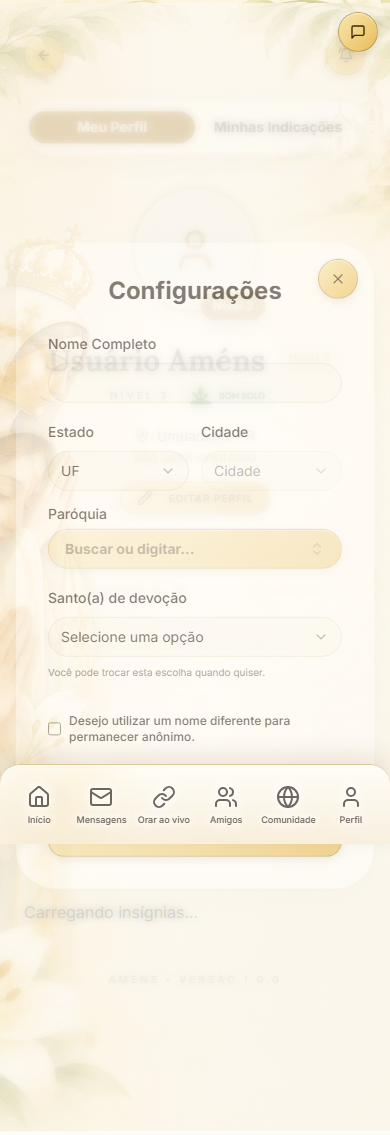
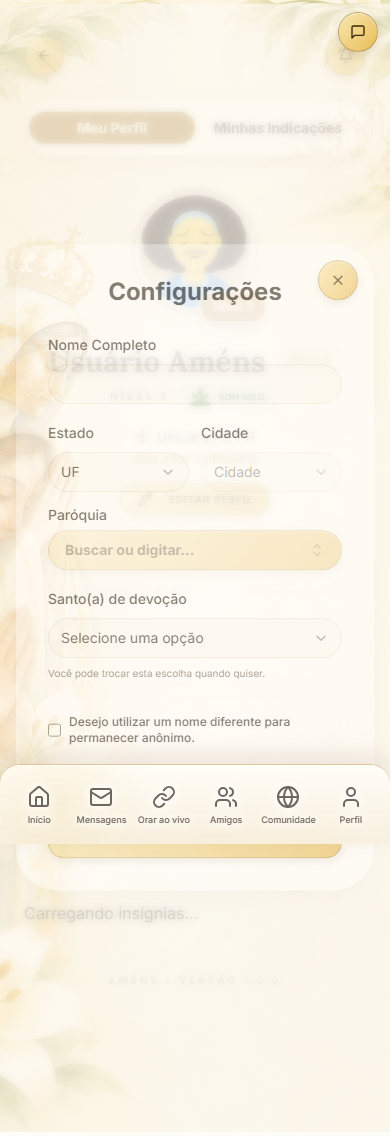
test(app13): validate profile privacy and upload guards

diff --git a/src/pages/Profile.tsx b/src/pages/Profile.tsx
@@ -216,6 +216,12 @@ const Profile = () => {
       }
 
       const file = event.target.files[0];
+      if (!file.type.startsWith("image/")) {
+        throw new Error("Selecione uma imagem válida.");
+      }
+      if (file.size > 5 * 1024 * 1024) {
+        throw new Error("A imagem deve ter no máximo 5 MB.");
+      }
       const fileExt = file.name.split(".").pop();
       const filePath = `${user.id}/${Math.random()}.${fileExt}`;
 

diff --git a/docs/app13-validation.md b/docs/app13-validation.md
@@ -34,7 +34,7 @@
 | Caso | Validação | Estado |
 | --- | --- | --- |
 | APP13-T01 | Salvar, cancelar, recarregar e falhar gravação | Cancelamento aprovado; falha de gravação pendente |
-| APP13-T02 | Foto válida, formato/tamanho inválido e falha de upload | Não executado |
+| APP13-T02 | Foto válida, formato/tamanho inválido e falha de upload | Tipo e tamanho inválidos aprovados; upload válido pendente |
 | APP13-T03 | Nome público e presença na paróquia entre duas contas | Não executado |
 | APP13-T04 | Indicação válida, própria, repetida e concorrente | Não executado |
 | APP13-T05 | Preferência de desempenho e movimento reduzido | Não executado |
@@ -49,6 +49,10 @@
 - Campos de devoção e presença pública na paróquia foram encontrados.
 - Cancelar uma alteração temporária retornou ao altar sem persistir o valor.
 - Captura autenticada gerada em `artifacts/app13-profile-edit-390.png`.
+- Upload de arquivo não-imagem e imagem acima de 5 MB rejeitados antes do
+  Storage.
+- Atualização do próprio perfil confirmada diretamente no Supabase sem alterar
+  o valor armazenado.
 - Contrato de segurança de `process-referral` validado estaticamente.
 - `npm run build`: aprovado.
 
